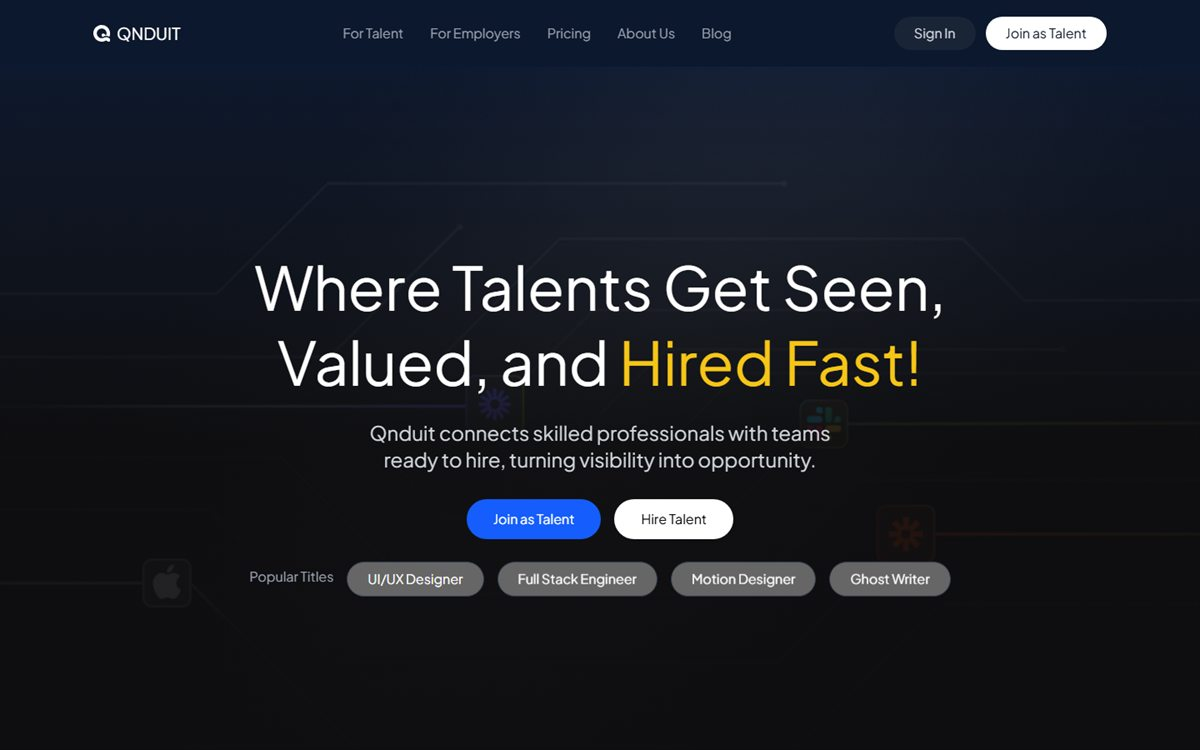
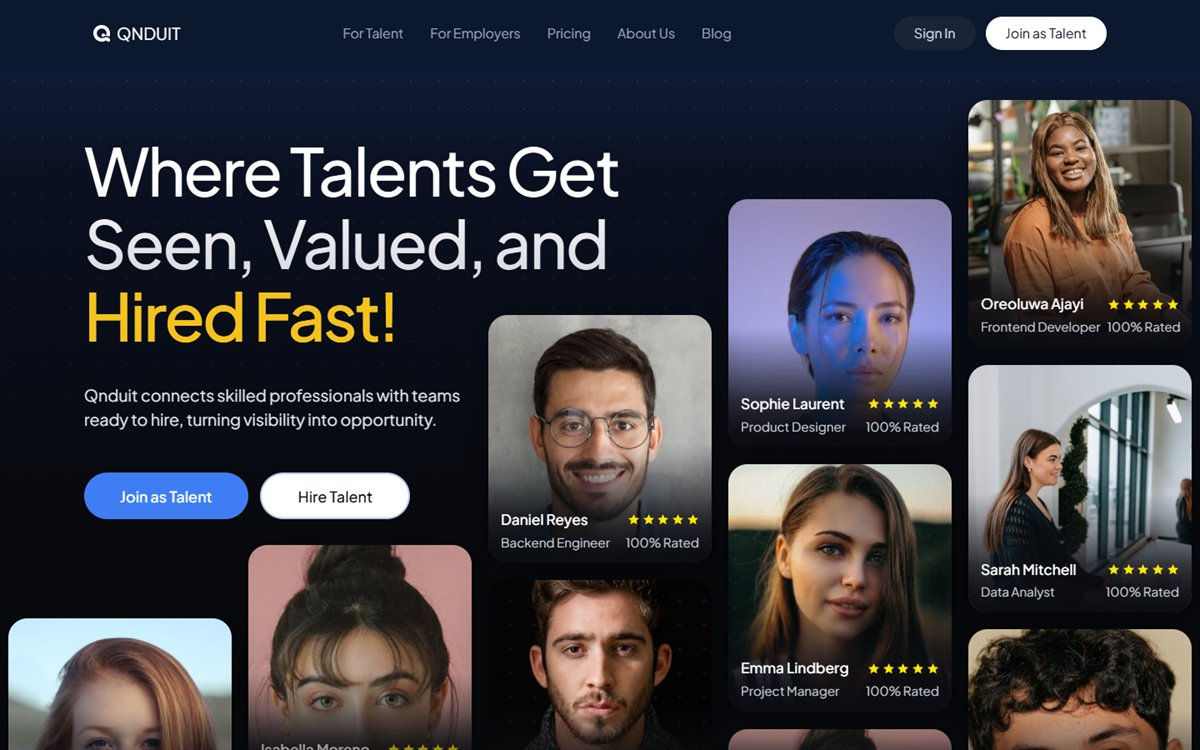
Update hero copy and Qnduit screenshot

diff --git a/client/src/data/content.js b/client/src/data/content.js
@@ -21,8 +21,8 @@ export const PROFILE = {
 };
 
 export const HERO = {
-  headline: "I build web products end to end.",
-  lede: "Payment and enrolment systems, admin dashboards, talent marketplaces and the sites that sell them. I came to software from mechanical engineering, so I read the spec closely, find the gaps early and document what ships.",
+  headline: "Full-stack engineer building production web apps.",
+  lede: "I’ve shipped Paystack payment and instalment flows, a secure online assessment platform, internal HR dashboards and a live talent marketplace. I moved into software from safety-critical engineering in oil and gas, so I read the spec closely, find the gaps early and document what ships.",
   stack: "React, Node.js, Express, MongoDB",
 };
 

diff --git a/client/src/components/Hero.css b/client/src/components/Hero.css
@@ -7,7 +7,7 @@
   font-weight: 600;
   line-height: 1.04;
   letter-spacing: -0.035em;
-  max-width: 16ch;
+  max-width: 22ch;
 }
 
 .hero-lede {
